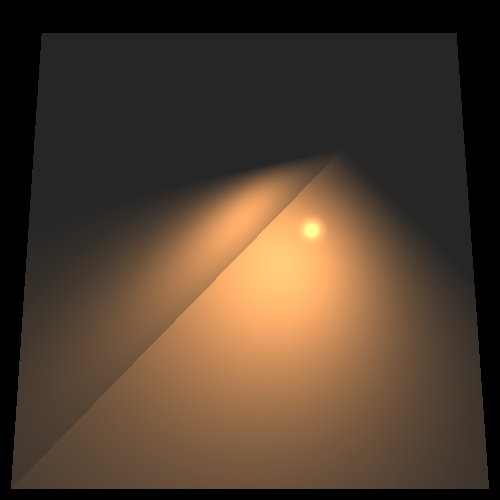
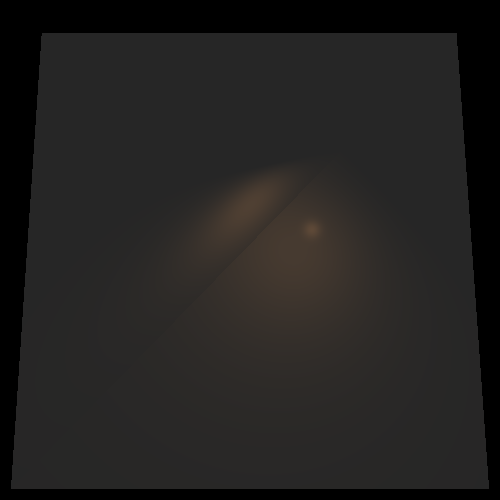
test: adjust spot light test parameters

diff --git a/unitTests/lighting/LightsTests.java b/unitTests/lighting/LightsTests.java
@@ -25,7 +25,6 @@ public class LightsTests {
     private Camera camera2 = new Camera(new Point(0, 0, 1000), new Vector(0, 0, -1), new Vector(0, 1, 0)) //
             .setVPSize(200, 200) //
             .setVPDistance(1000);
-
     private Point[] p = { // The Triangles' vertices:
             new Point(-110, -110, -150), // the shared left-bottom
             new Point(95, 100, -150), // the shared right-top
@@ -42,7 +41,6 @@ public class LightsTests {
     private Geometry sphere = new Sphere(new Point(0, 0, -50), 50d) //
             .setEmission(new Color(BLUE).reduce(2)) //
             .setMaterial(new Material().setkD(0.5).setkS(0.5).setnShininess(300));
-
     /**
      * Produce a picture of a sphere lighted by a directional light
      */
@@ -50,14 +48,12 @@ public class LightsTests {
     public void sphereDirectional() {
         scene1.getGeometries().add(sphere);
         scene1.getLights().add(new DirectionalLight(spCL, new Vector(1, 1, -0.5)));
-
         ImageWriter imageWriter = new ImageWriter("lightSphereDirectional", 500, 500);
         camera1.setImageWriter(imageWriter) //
                 .setRayTracer(new RayTracerBasic(scene1)) //
                 .renderImage(); //
-        camera1.writeToImage(); //
+        camera1.writeToImage();
     }
-
     /**
      * Produce a picture of a sphere lighted by a point light
      */
@@ -65,14 +61,12 @@ public class LightsTests {
     public void spherePoint() {
         scene1.getGeometries().add(sphere);
         scene1.getLights().add(new PointLight(spCL, spPL).setkL(0.001).setkQ(0.0002));
-
         ImageWriter imageWriter = new ImageWriter("lightSpherePoint", 500, 500);
         camera1.setImageWriter(imageWriter) //
                 .setRayTracer(new RayTracerBasic(scene1)) //
                 .renderImage(); //
         camera1.writeToImage(); //
     }
-
     /**
      * Produce a picture of a sphere lighted by a spot light
      */
@@ -80,14 +74,12 @@ public class LightsTests {
     public void sphereSpot() {
         scene1.getGeometries().add(sphere);
         scene1.getLights().add(new SpotLight(spCL, spPL, new Vector(1, 1, -0.5)).setkL(0.001).setkQ(0.0001));
-
         ImageWriter imageWriter = new ImageWriter("lightSphereSpot", 500, 500);
         camera1.setImageWriter(imageWriter) //
                 .setRayTracer(new RayTracerBasic(scene1)) //
                 .renderImage(); //
         camera1.writeToImage(); //
     }
-
     /**
      * Produce a picture of a two triangles lighted by a directional light
      */
@@ -95,14 +87,12 @@ public class LightsTests {
     public void trianglesDirectional() {
         scene2.getGeometries().add(triangle1, triangle2);
         scene2.getLights().add(new DirectionalLight(trCL, trDL));
-
         ImageWriter imageWriter = new ImageWriter("lightTrianglesDirectional", 500, 500);
         camera2.setImageWriter(imageWriter) //
                 .setRayTracer(new RayTracerBasic(scene2)) //
                 .renderImage(); //
         camera2.writeToImage(); //
     }
-
     /**
      * Produce a picture of a two triangles lighted by a point light
      */
@@ -110,14 +100,12 @@ public class LightsTests {
     public void trianglesPoint() {
         scene2.getGeometries().add(triangle1, triangle2);
         scene2.getLights().add(new PointLight(trCL, trPL).setkL(0.001).setkQ(0.0002));
-
         ImageWriter imageWriter = new ImageWriter("lightTrianglesPoint", 500, 500);
         camera2.setImageWriter(imageWriter) //
                 .setRayTracer(new RayTracerBasic(scene2)) //
                 .renderImage(); //
         camera2.writeToImage(); //
     }
-
     /**
      * Produce a picture of a two triangles lighted by a spot light
      */
@@ -125,14 +113,12 @@ public class LightsTests {
     public void trianglesSpot() {
         scene2.getGeometries().add(triangle1, triangle2);
         scene2.getLights().add(new SpotLight(trCL, trPL, trDL).setkL(0.001).setkQ(0.0001));
-
         ImageWriter imageWriter = new ImageWriter("lightTrianglesSpot", 500, 500);
         camera2.setImageWriter(imageWriter) //
                 .setRayTracer(new RayTracerBasic(scene2)) //
                 .renderImage(); //
         camera2.writeToImage(); //
     }
-
     /**
      * Produce a picture of a sphere lighted by a narrow spot light
      */
@@ -140,28 +126,24 @@ public class LightsTests {
     public void sphereSpotSharp() {
         scene1.getGeometries().add(sphere);
         scene1.getLights()
-                .add(new SpotLight(spCL, spPL, new Vector(1, 1, -0.5)).setNarrowBeam(10).setkL(0.001).setkQ(0.00004));
-
-        ImageWriter imageWriter = new ImageWriter("lightSphereSpotSharp", 500, 500);
+                .add(new SpotLight(spCL, spPL, new Vector(1, 1, -0.5)).setkL(0.1).setkQ(0.00004));
+        ImageWriter imageWriter = new ImageWriter("lightSphereSpotSharp1", 500, 500);
         camera1.setImageWriter(imageWriter) //
                 .setRayTracer(new RayTracerBasic(scene1)) //
                 .renderImage(); //
         camera1.writeToImage(); //
     }
-
     /**
      * Produce a picture of a two triangles lighted by a narrow spot light
      */
     @Test
     public void trianglesSpotSharp() {
         scene2.getGeometries().add(triangle1, triangle2);
-        scene2.getLights().add(new SpotLight(trCL, trPL, trDL).setNarrowBeam(10).setkL(0.001).setkQ(0.00004));
-
+        scene2.getLights().add(new SpotLight(trCL, trPL, trDL).setkL(0.001).setkQ(0.003));
         ImageWriter imageWriter = new ImageWriter("lightTrianglesSpotSharp", 500, 500);
         camera2.setImageWriter(imageWriter) //
                 .setRayTracer(new RayTracerBasic(scene2)) //
                 .renderImage(); //
         camera2.writeToImage(); //
     }
-
 }

diff --git a/unitTests/renderer/RenderTests.java b/unitTests/renderer/RenderTests.java
@@ -5,10 +5,9 @@ import org.junit.jupiter.api.Test;
 import lighting.AmbientLight;
 import geometries.*;
 import primitives.*;
+import renderer.*;
 import Scene.Scene;
-
 import static java.awt.Color.*;
-import static java.awt.Color.YELLOW;
 
 /**
  * Test rendering a basic image
@@ -26,8 +25,7 @@ public class RenderTests {
 		Scene scene = new Scene.SceneBuilder("Test scene")//
 				.setAmbientLight(new AmbientLight(new Color(255, 191, 191), //
 						new Double3(1, 1, 1))) //
-				.setBackground(new Color(75, 127, 90))
-				.build();
+				.setBackground(new Color(75, 127, 90)).build();
 
 		scene.getGeometries().add(new Sphere(new Point(0, 0, -100), 50d),
 				new Triangle(new Point(-100, 0, -100), new Point(0, 100, -100), new Point(-100, 100, -100)), // up
@@ -45,7 +43,9 @@ public class RenderTests {
 		camera.renderImage();
 		camera.printGrid(100, new Color(YELLOW));
 		camera.writeToImage();
-	}// For stage 6 - please disregard in stage 5
+	}
+
+	// For stage 6 - please disregard in stage 5
 	/**
 	 * Produce a scene with basic 3D model - including individual lights of the
 	 * bodies and render it into a png image with a grid
@@ -56,6 +56,7 @@ public class RenderTests {
 				.setAmbientLight(new AmbientLight(new Color(WHITE), new Double3(0.2))).build(); //
 
 		scene.getGeometries().add( //
+
 				new Sphere(new Point(0, 0, -100), 50),
 				// up left
 				new Triangle(new Point(-100, 0, -100), new Point(0, 100, -100), new Point(-100, 100, -100))
@@ -80,10 +81,13 @@ public class RenderTests {
 
 	/**
 	 * Test for XML based scene - for bonus
+	 *///
 
+
+	/*
 	@Test
 	public void basicRenderXml() {
-		Scene scene = new Scene.SceneBuilder("XML Test scene").build();
+		Scene scene = new Scene("XML Test scene");
 		// enter XML file name and parse from XML file into scene object
 		// ...
 
@@ -94,6 +98,6 @@ public class RenderTests {
 		camera.renderImage();
 		camera.printGrid(100, new Color(YELLOW));
 		camera.writeToImage();
-	}
-	*/
+	}//*/
+
 }
